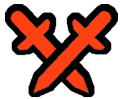
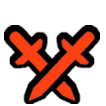
Updating the universe and moving the jumpships along their routes.

diff --git a/net.clanwolf.starmap.client/src/main/java/net/clanwolf/starmap/client/gui/panes/map/MapPaneController.java b/net.clanwolf.starmap.client/src/main/java/net/clanwolf/starmap/client/gui/panes/map/MapPaneController.java
@@ -453,15 +453,15 @@ public class MapPaneController extends AbstractC3Controller implements ActionCal
 				Image attackMarker;
 				if (a != null) {
 					if (a.getRound().equals(boUniverse.currentRound) && a.getStarSystemId().equals(starSystem.getStarSystemId())) {
-						double markerDim = 20.0d;
 						attackMarker = new Image(Objects.requireNonNull(getClass().getResourceAsStream("/images/map/attack2.png")));
+						double markerDim = 16.0d;
 						ImageView marker;
 						marker = new ImageView();
 						marker.setFitWidth(markerDim);
 						marker.setFitHeight(markerDim);
 						marker.setImage(attackMarker);
 						marker.setTranslateX(starSystem.getScreenX() - (markerDim / 2));
-						marker.setTranslateY(starSystem.getScreenY() - (markerDim / 2) - 15);
+						marker.setTranslateY(starSystem.getScreenY() - (markerDim / 2) - 12);
 						marker.setMouseTransparent(true);
 						marker.toFront();
 						marker.setId("swordsIcon");
@@ -534,6 +534,23 @@ public class MapPaneController extends AbstractC3Controller implements ActionCal
 						jumpshipImage.setImage(left_blue);
 						jumpshipImage.addEventFilter(MouseEvent.MOUSE_DRAGGED, nodeGestures.getOnMouseDraggedEventHandler());
 						jumpshipImage.addEventFilter(MouseEvent.DRAG_DETECTED, nodeGestures.getOnMouseDragDetectedEventHandler());
+
+						// Remove old attack visuals
+						ArrayList<Node> lineElementsToRemove = new ArrayList<>();
+						for (Node n : attacksPane.getChildren()) {
+							if (("attackVisuals" + js.getJumpshipName()).equals(n.getId())) {
+								lineElementsToRemove.add(n);
+							}
+						}
+						attacksPane.getChildren().removeAll(lineElementsToRemove);
+
+						ArrayList<Node> backgroundElementsToRemove = new ArrayList<>();
+						for (Node n : canvas.getChildren()) {
+							if (("attackVisuals" + js.getJumpshipName()).equals(n.getId())) {
+								backgroundElementsToRemove.add(n);
+							}
+						}
+						canvas.getChildren().removeAll(backgroundElementsToRemove);
 					} else {
 						Image left_neutral = new Image(Objects.requireNonNull(getClass().getResourceAsStream("/images/map/jumpship_left_neutral.png")));
 						jumpshipImage.setImage(left_neutral);
